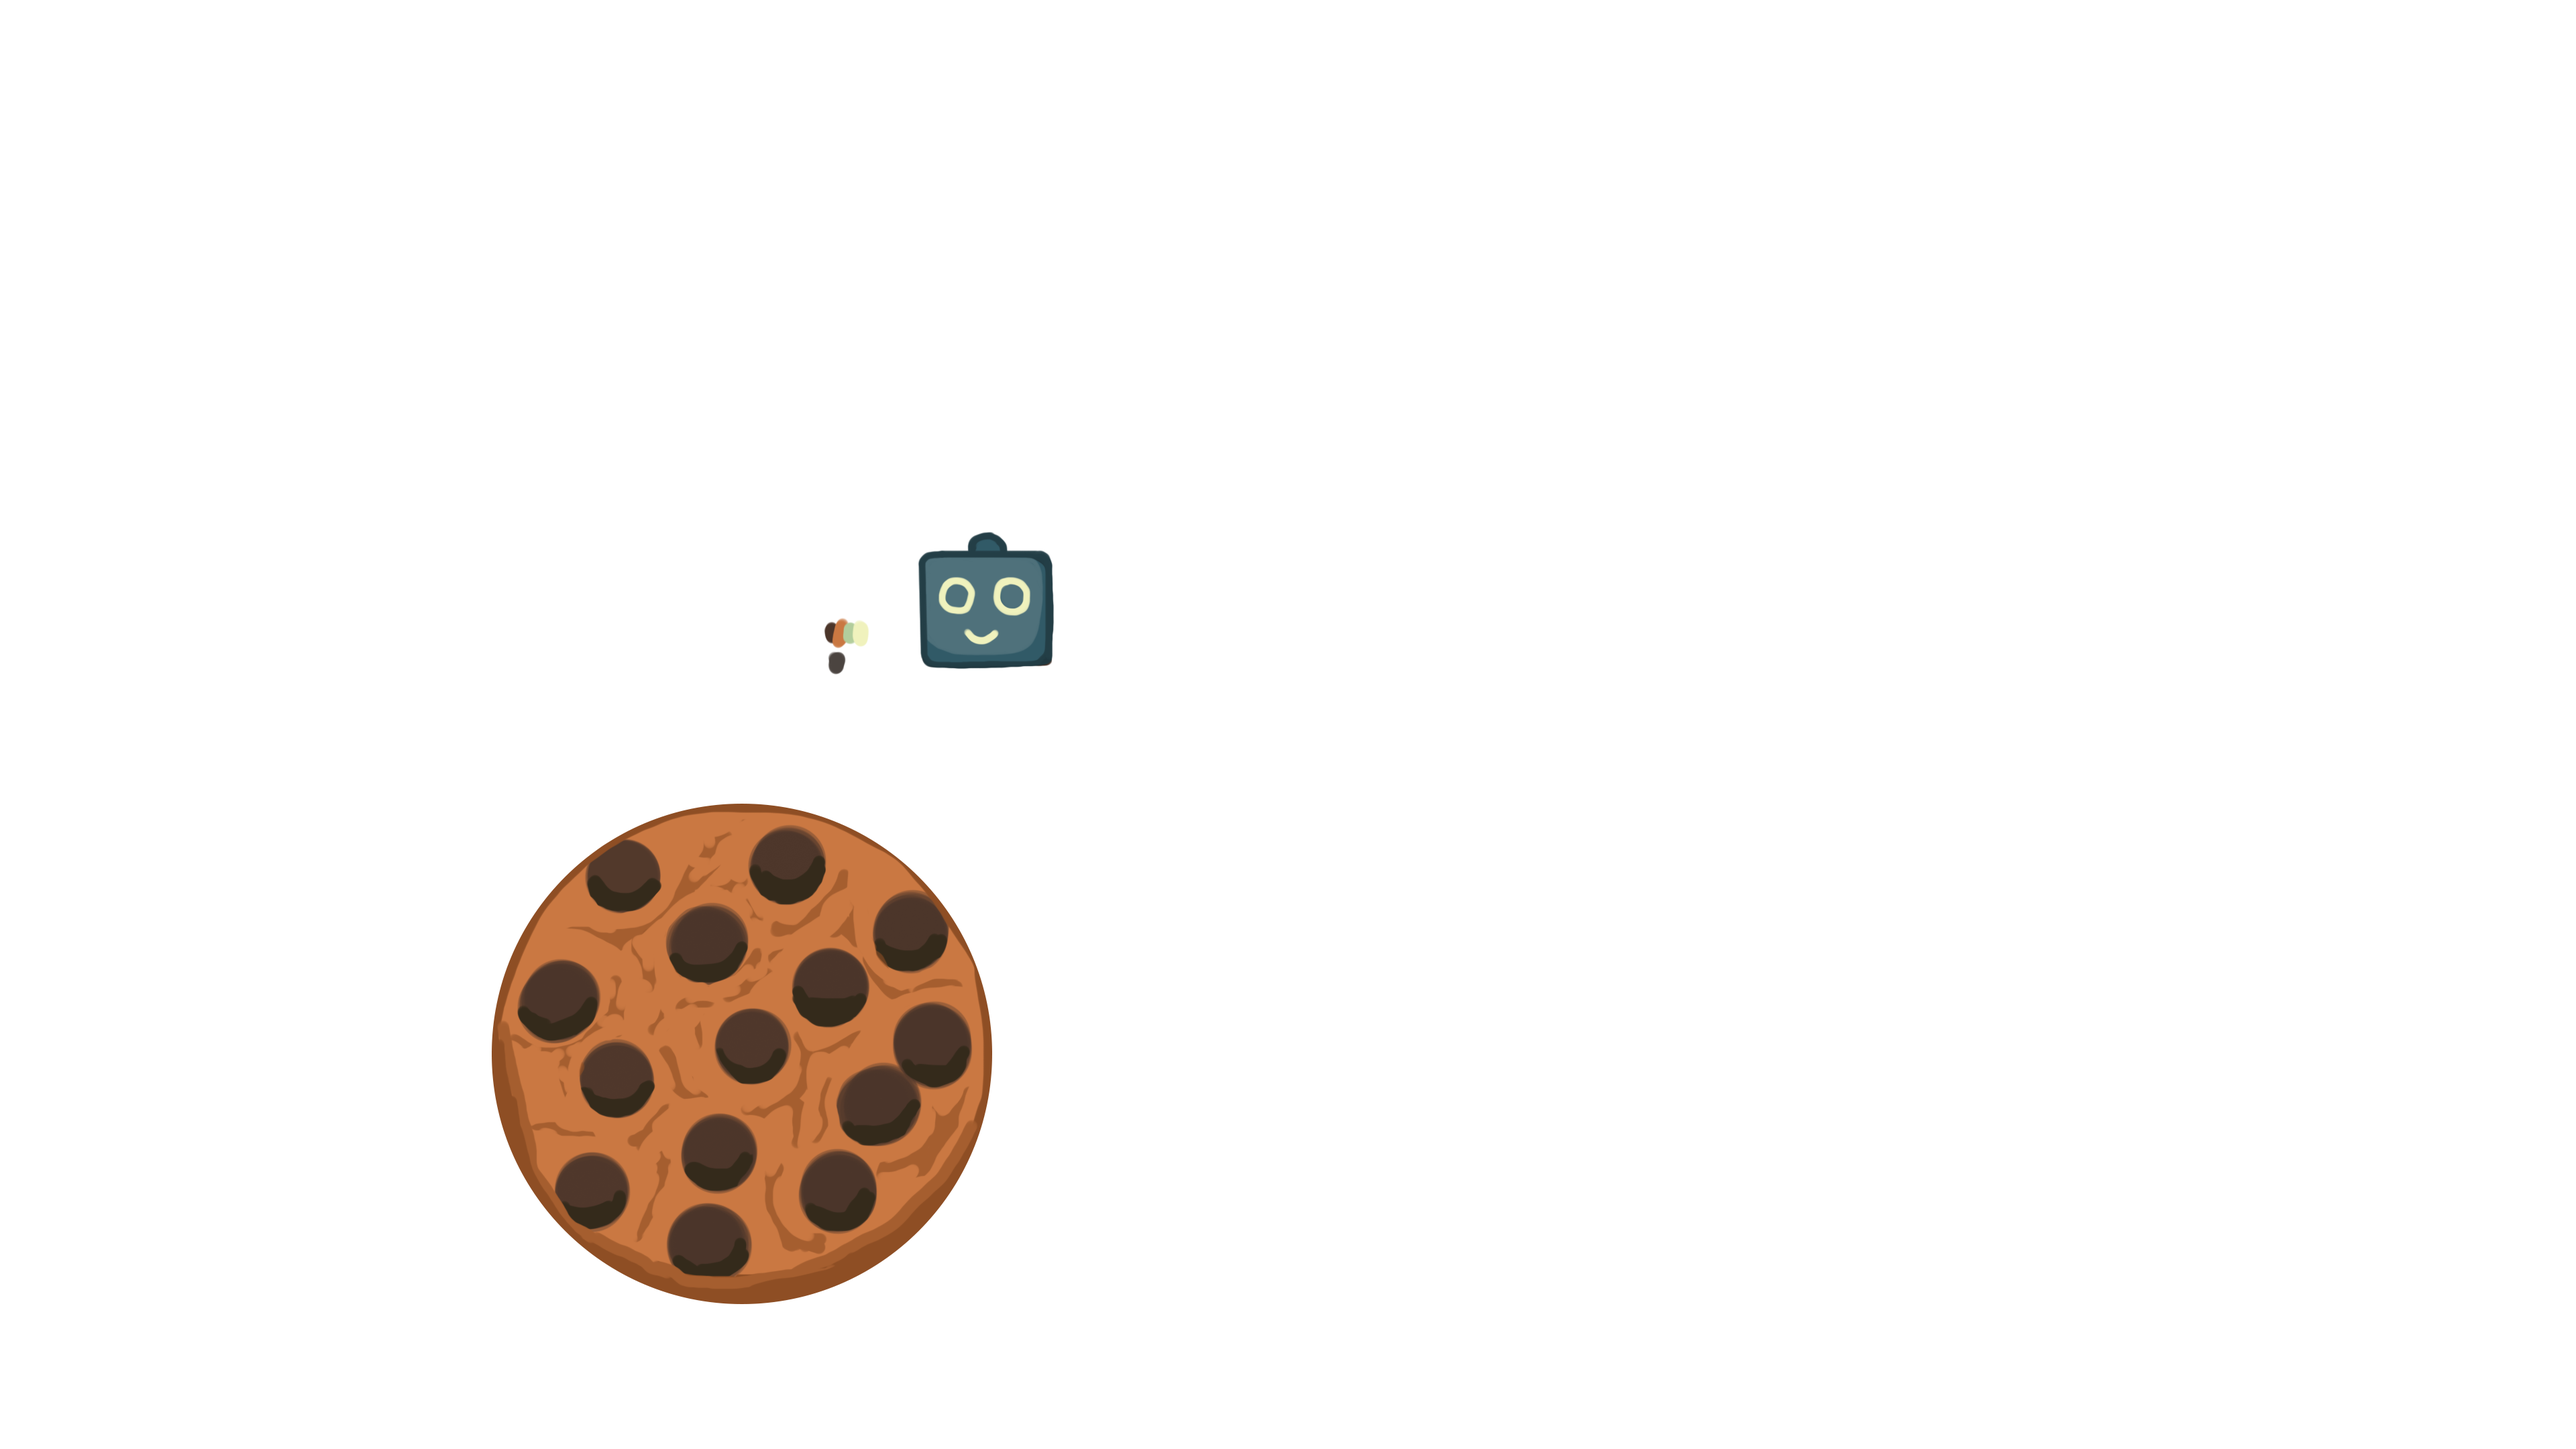
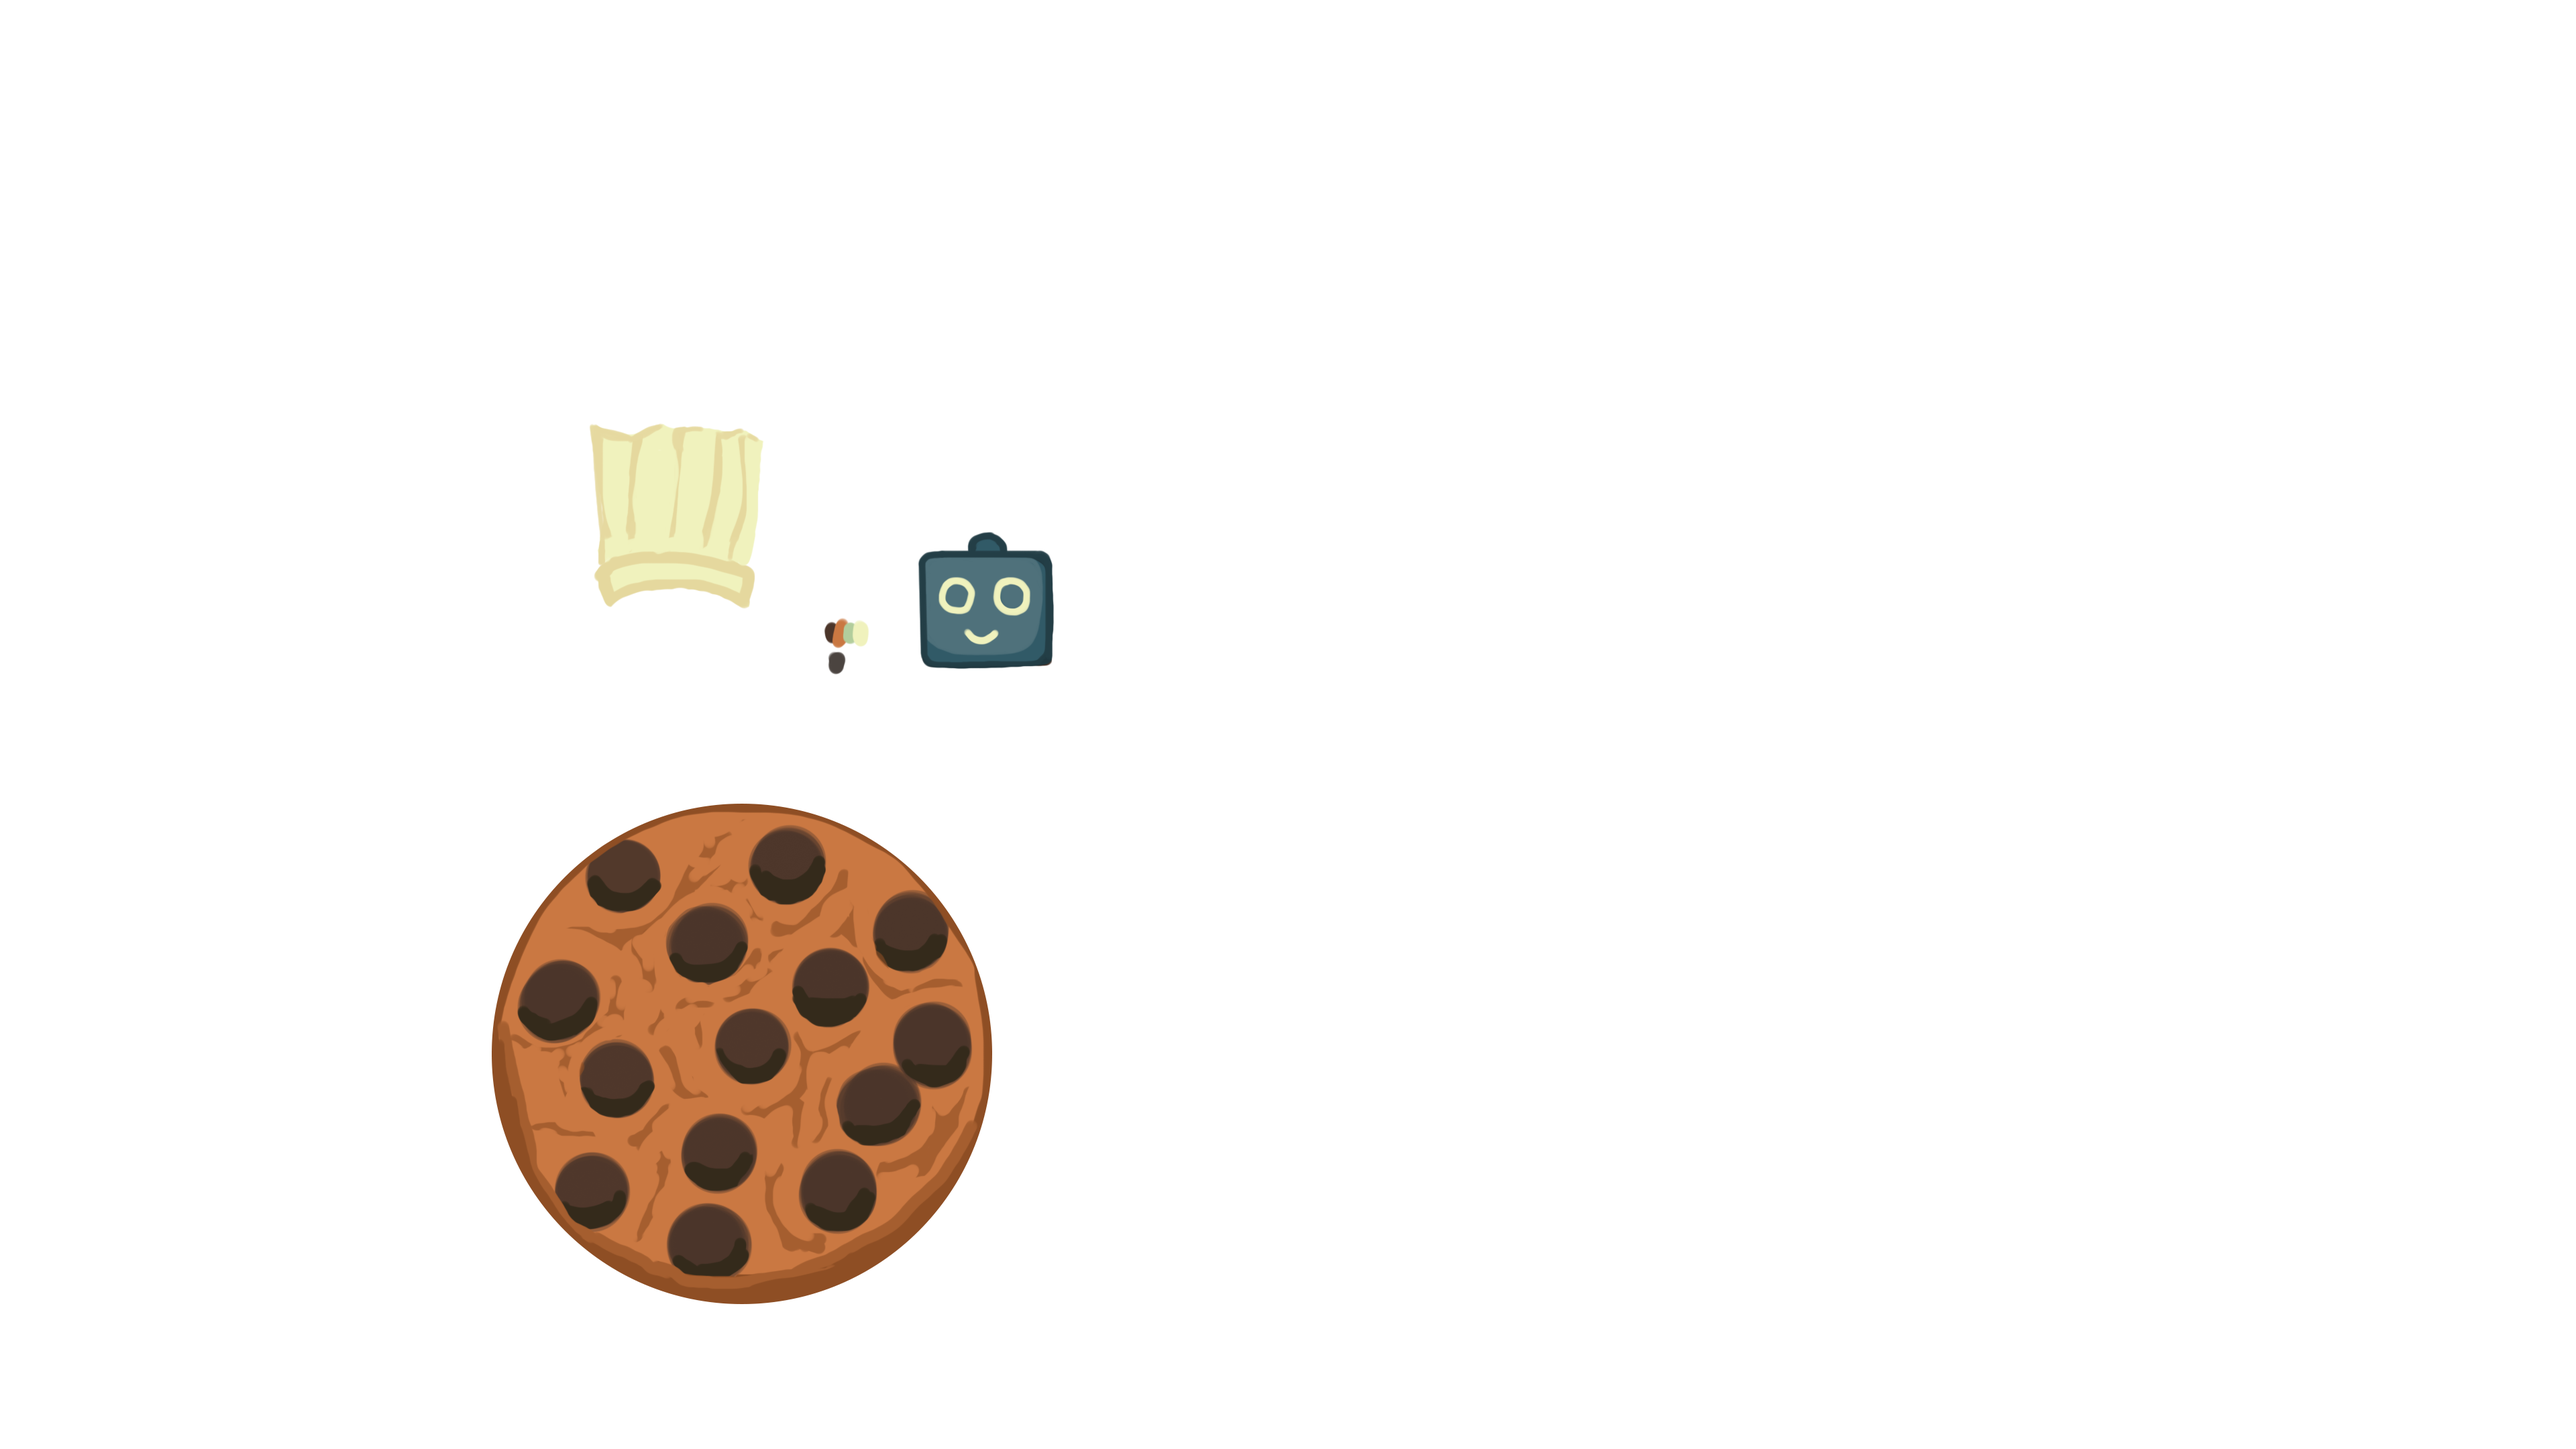
Added a cool hat to the robot

Changed region(s): [[0.2188, 0.2792, 0.3125, 0.4343]]

diff --git a/Assets/Scripts/HatRotationAnim.cs b/Assets/Scripts/HatRotationAnim.cs
@@ -1,0 +1,24 @@
+using UnityEngine;
+
+public class HatRotationAnim : MonoBehaviour
+{
+    public float angle_range = 30;
+    private float angle = 0;
+    public float force_multiplier = 1;
+    public float damping = 0.3f;
+    private float previous_x;
+    void Start()
+    {
+        previous_x = transform.position.x;
+    }
+
+    void Update()
+    {
+        float offset = (transform.position.x - previous_x);
+        angle += offset * force_multiplier;
+        angle = Mathf.Clamp(angle, -angle_range, angle_range);
+        angle *= Mathf.Pow(damping, Time.deltaTime);
+        transform.localRotation = Quaternion.AngleAxis(angle, Vector3.forward);
+        previous_x = transform.position.x;
+    }
+}

diff --git a/Assets/Scripts/GrabbableDetector.cs b/Assets/Scripts/GrabbableDetector.cs
@@ -7,6 +7,7 @@ public class GrabbableDetector : MonoBehaviour
     private Grabbable grabbable_in_range;
     private SpringJoint2D grab_joint;
     private Rigidbody2D rb;
+
     private void OnTriggerEnter2D(Collider2D collision)
     {
         Grabbable grabbable = collision.attachedRigidbody.GetComponent<Grabbable>();
@@ -15,6 +16,7 @@ public class GrabbableDetector : MonoBehaviour
             grabbable_in_range = grabbable;
         }
     }
+
     private void OnTriggerExit2D(Collider2D collision)
     {
         if(grabbable_in_range != null && grabbable_in_range == collision.attachedRigidbody.GetComponent<Grabbable>())

diff --git a/Assets/Scripts/PlayerMovement.cs b/Assets/Scripts/PlayerMovement.cs
@@ -14,7 +14,7 @@ public class PlayerMovement : MonoBehaviour
 
     private void OnDestroy()
     {
-        Cursor.lockState= CursorLockMode.None;
+        Cursor.lockState = CursorLockMode.None;
     }
 
     void Update()
